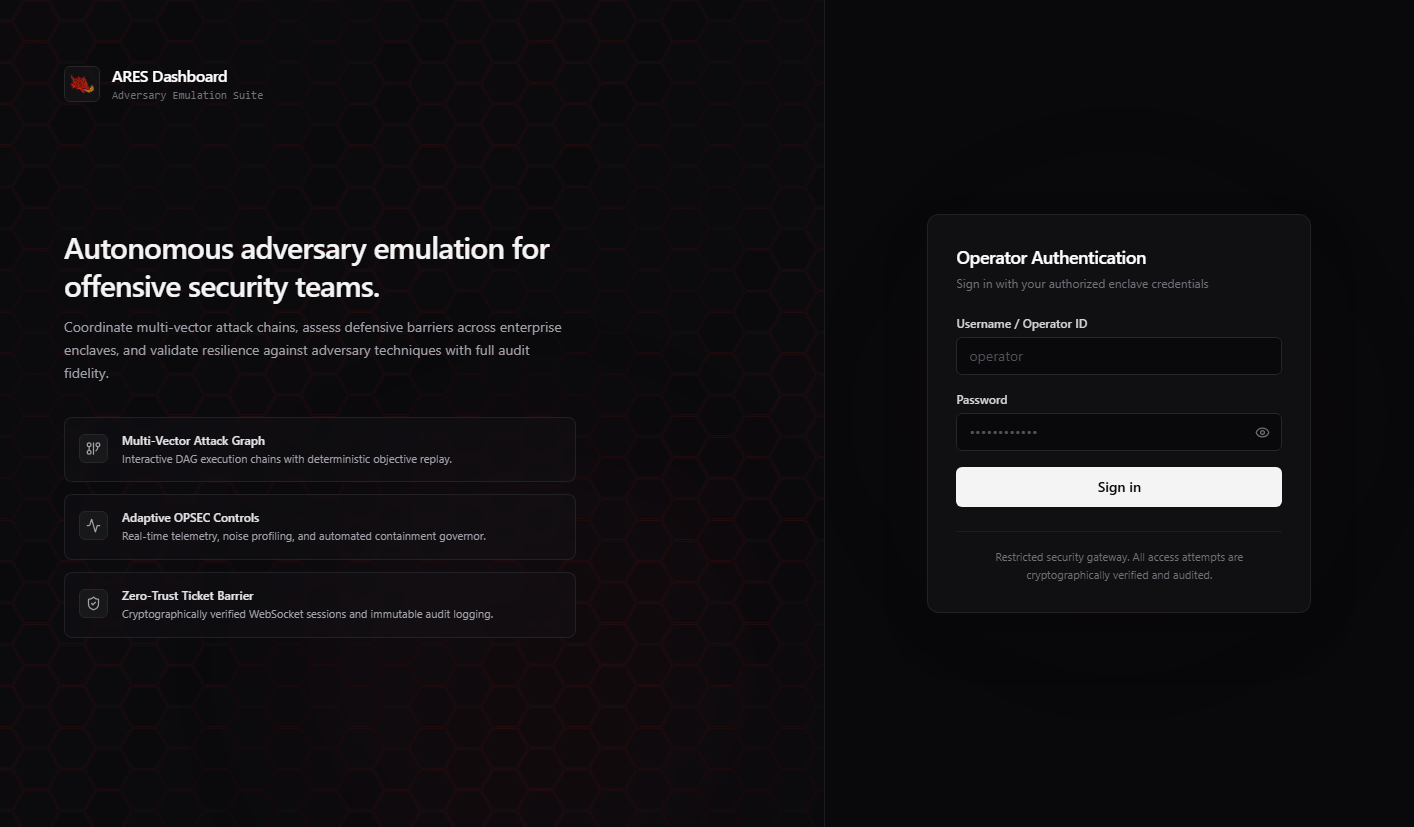
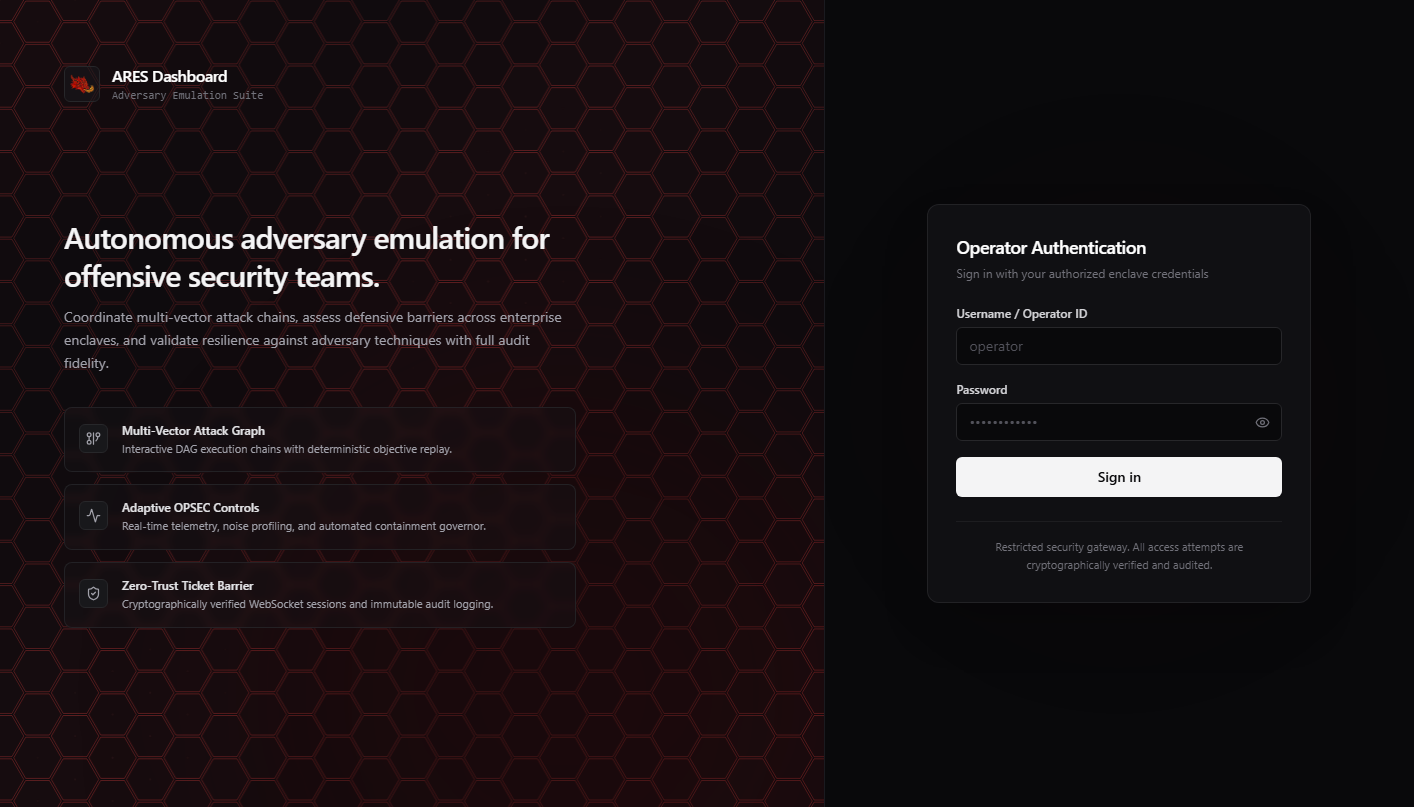
feat(ui): add autonomous ambient wave to dragon scale mesh and tune visibility
- Enable autonomous breathing waves across hexagonal scales without requiring cursor hover

- Tune baseline scale line and fill opacity so the lattice is visibly alive and not overly dark

- Add soft atmospheric ember warmth behind mesh while preserving clean approved typography

- Update documentation screenshot asset

diff --git a/frontend/src/features/auth/SecurityMeshCanvas.tsx b/frontend/src/features/auth/SecurityMeshCanvas.tsx
@@ -38,12 +38,7 @@ export function SecurityMeshCanvas({ className = "" }: SecurityMeshCanvasProps) 
     const mouse = { x: -9999, y: -9999 };
 
     // ── Hex geometry (flat-top orientation) ──────────────────────────────────
-    // R   = circumradius (center → corner)
-    // HH  = hex height flat-to-flat = √3 × R
-    // COL = horizontal distance between centers = R × 1.5 (columns overlap by R/2)
-    // ROW = vertical distance between centers in same column = HH
-    // Odd columns are offset down by HH/2
-    const R = 24;
+    const R = 25;
     const HH = Math.sqrt(3) * R;
     const COL = R * 1.5;
     const ROW = HH;
@@ -97,14 +92,14 @@ export function SecurityMeshCanvas({ className = "" }: SecurityMeshCanvasProps) 
     parent?.addEventListener("mouseleave", onMouseLeave);
 
     // ── Render constants ──────────────────────────────────────────────────────
-    const MOUSE_R  = 140;   // radius of mouse-proximity glow
-    const DRAW_R   = R - 1; // slightly smaller so gaps show between scales
+    const MOUSE_R  = 160;   // radius of mouse-proximity glow
+    const DRAW_R   = R - 1.2; // clean spacing between scales
 
     let t = 0;
 
     const render = () => {
       if (document.hidden) { animId = requestAnimationFrame(render); return; }
-      t += 0.006; // breathing speed — slow, subliminal
+      t += 0.009; // calm, authoritative breathing speed
 
       ctx!.clearRect(0, 0, W, H);
 
@@ -112,18 +107,24 @@ export function SecurityMeshCanvas({ className = "" }: SecurityMeshCanvasProps) 
         // Skip hexes well outside the canvas
         if (cx < -R * 2 || cx > W + R * 2 || cy < -R * 2 || cy > H + R * 2) continue;
 
-        // ── Mouse proximity glow (dragon reacts to operator) ──────────────
+        // ── Mouse proximity (reactive layer) ──────────────────────────────
         const dx = cx - mouse.x;
         const dy = cy - mouse.y;
         const distM = Math.hypot(dx, dy);
-        const mouse_t = distM < MOUSE_R ? 1 - distM / MOUSE_R : 0;
+        const mouse_t = distM < MOUSE_R ? (1 - distM / MOUSE_R) ** 1.5 : 0;
 
-        // ── Breathing wave (diagonal drift = direction of dragon's attention) ─
-        // Wave travels diagonally top-left → bottom-right
-        const wave_t = Math.sin(t + cx * 0.012 + cy * 0.009) * 0.5 + 0.5;
+        // ── Autonomous harmonic waves (automatic breathing motion) ────────
+        // Primary diagonal drift across dragon scales
+        const wave1 = Math.sin(t + cx * 0.009 + cy * 0.007) * 0.5 + 0.5;
+        // Secondary cross-drift for organic fluidity
+        const wave2 = Math.cos(t * 0.7 - cx * 0.006 + cy * 0.008) * 0.5 + 0.5;
+        const autoWave = wave1 * 0.7 + wave2 * 0.3;
 
-        // Combined intensity
-        const glow = Math.max(mouse_t * 0.9, wave_t * 0.13);
+        // Ambient energy is always visible and softly pulses
+        const ambientGlow = 0.16 + autoWave * 0.40;
+
+        // Total scale excitation: ambient wave plus operator cursor focus
+        const glow = Math.min(1.0, ambientGlow + mouse_t * 0.65);
 
         // ── Draw hex path ─────────────────────────────────────────────────
         ctx!.beginPath();
@@ -134,15 +135,25 @@ export function SecurityMeshCanvas({ className = "" }: SecurityMeshCanvasProps) 
         }
         ctx!.closePath();
 
-        // Fill — barely there at rest, deep crimson near cursor
-        ctx!.fillStyle = `rgba(180, 15, 15, ${glow * 0.11})`;
+        // Fill — subtle warm ember glow on wave crests, concentrated under cursor
+        const fillAlpha = glow * 0.13;
+        ctx!.fillStyle = `rgba(185, 28, 28, ${fillAlpha})`;
         ctx!.fill();
 
-        // Border — the scale edge, always visible but dim at rest
-        const border = 0.14 + glow * 0.5;
-        ctx!.strokeStyle = `rgba(220, 38, 38, ${border})`;
-        ctx!.lineWidth = 0.75;
+        // Border — distinct, crisp crimson lattice lines
+        const borderAlpha = 0.20 + glow * 0.38;
+        ctx!.strokeStyle = `rgba(239, 68, 68, ${borderAlpha})`;
+        ctx!.lineWidth = 0.85;
         ctx!.stroke();
+
+        // Subtle node dot on energetic scale centers (looks like a live cyber lattice)
+        if (glow > 0.48) {
+          const dotAlpha = (glow - 0.48) * 0.7;
+          ctx!.beginPath();
+          ctx!.arc(cx, cy, 1.2, 0, Math.PI * 2);
+          ctx!.fillStyle = `rgba(252, 165, 165, ${dotAlpha})`;
+          ctx!.fill();
+        }
       }
 
       animId = requestAnimationFrame(render);

diff --git a/frontend/src/features/auth/LoginPage.tsx b/frontend/src/features/auth/LoginPage.tsx
@@ -39,10 +39,10 @@ export function LoginPage() {
       {/* Left Column */}
       <div className="hidden lg:flex lg:col-span-7 flex-col justify-between p-12 xl:p-16 border-r border-[#1a1a1f] bg-[#0b0b0e] relative overflow-hidden">
         {/* The mesh IS the animation — purposeful: visualises the live attack graph */}
-        <SecurityMeshCanvas className="opacity-70" />
+        <SecurityMeshCanvas />
 
-        {/* Single ambient glow — draws eye toward centre of mesh */}
-        <div className="pointer-events-none absolute left-1/3 top-1/2 -translate-x-1/2 -translate-y-1/2 h-[32rem] w-[32rem] rounded-full bg-red-900/[0.06] blur-[80px] animate-ares-breathe" />
+        {/* Ambient atmospheric glow — soft ember warmth behind dragon scales */}
+        <div className="pointer-events-none absolute left-1/3 top-1/2 -translate-x-1/2 -translate-y-1/2 h-[36rem] w-[36rem] rounded-full bg-red-950/[0.22] blur-[110px] animate-ares-breathe" />
 
         {/* Brand header */}
         <div className="relative z-10 flex items-center gap-3 animate-login-enter" style={{ animationDelay: "0ms" }}>
